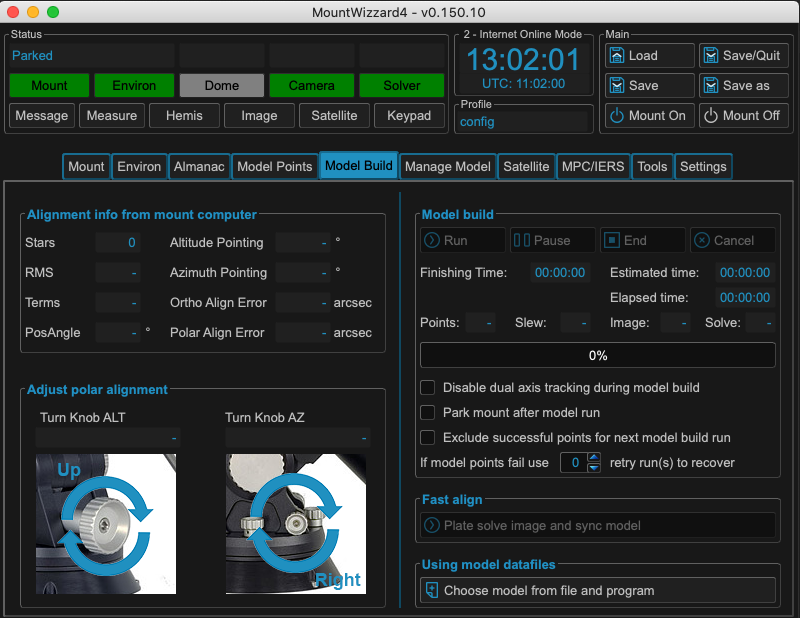
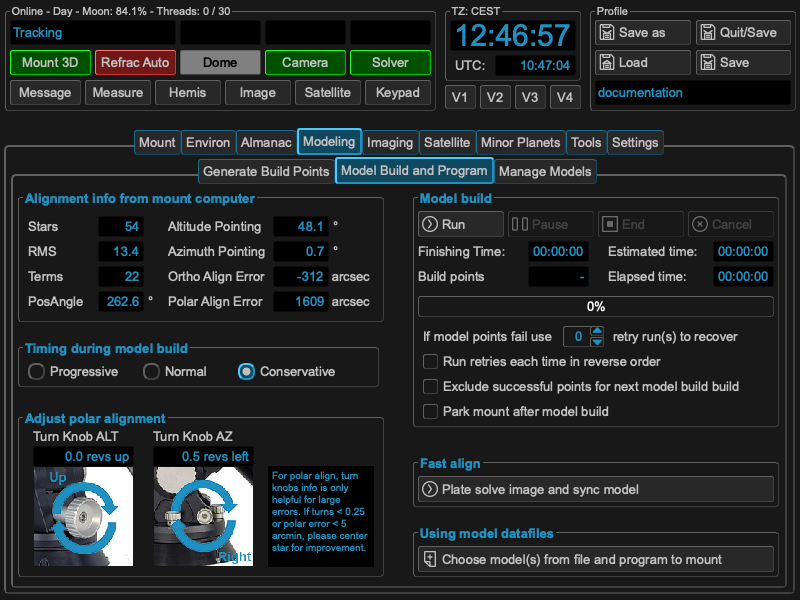
doc update

diff --git a/doc/using/modeling/model_build.rst b/doc/using/modeling/model_build.rst
@@ -1,11 +1,11 @@
-Running a model build
-=====================
+Build a model
+=============
 
-After you have selected you model points, MountWizzard4 could automatically run
-through the points and generate the data to build a model. These are steps you
-could basically all manual as the final model calculation itself is done in the
-mount computer! There are two different ways offered from 10micron to build a
-model:
+After you have selected you build points, MountWizzard4 could automatically run
+through the points and generate the data to generate a model. These are steps
+you could basically all manual as the final model calculation itself is done in
+the mount computer! There are two different ways offered from 10micron to build
+a model:
 
 .. hlist::
     :columns: 1
@@ -29,8 +29,8 @@ automatic handling of point data.
     :align: center
     :scale: 71%
 
-In the model build tab on the left, that actual model spec from the mount
-computer is shown. If you are in an early stage of your setup, you might use
+In the "model build and program" tab, that actual model spec from
+the mount computer is shown. If you are in an early stage of your setup, you might use
 some of the hints given to refine and tune your mechanical setup before building
 your final model for imaging.
 

diff --git a/doc/using/modeling/index.rst b/doc/using/modeling/index.rst
@@ -34,7 +34,7 @@ chart shows each basic step.
 
 Step 1: Polar alignment
 -----------------------
-Detailed description: :ref:`Polar align your mount`
+Detailed description: :doc:`Polar align your mount <polar_align>`
 
 .. image:: image/model_polar_align.png
     :align: center
@@ -42,7 +42,7 @@ Detailed description: :ref:`Polar align your mount`
 
 Step 2: Selecting model points
 ------------------------------
-Detailed description: :ref:`Selecting model points`
+Detailed description: :doc:`Selecting build points <build_points>`
 
 .. image:: image/model_points.png
     :align: center
@@ -50,7 +50,7 @@ Detailed description: :ref:`Selecting model points`
 
 Step 3: Running the model build
 -------------------------------
-Detailed description: :ref:`Running a model build`
+Detailed description: :doc:`Build a model <model_build>`
 
 .. image:: image/model_build.png
     :align: center
@@ -58,7 +58,7 @@ Detailed description: :ref:`Running a model build`
 
 Step 4: Managing mount models
 -----------------------------
-Detailed description: :ref:`Managing mount models`
+Detailed description: :doc:`Managing mount models <manage_model>`
 
 .. image:: image/manage_model.png
     :align: center
